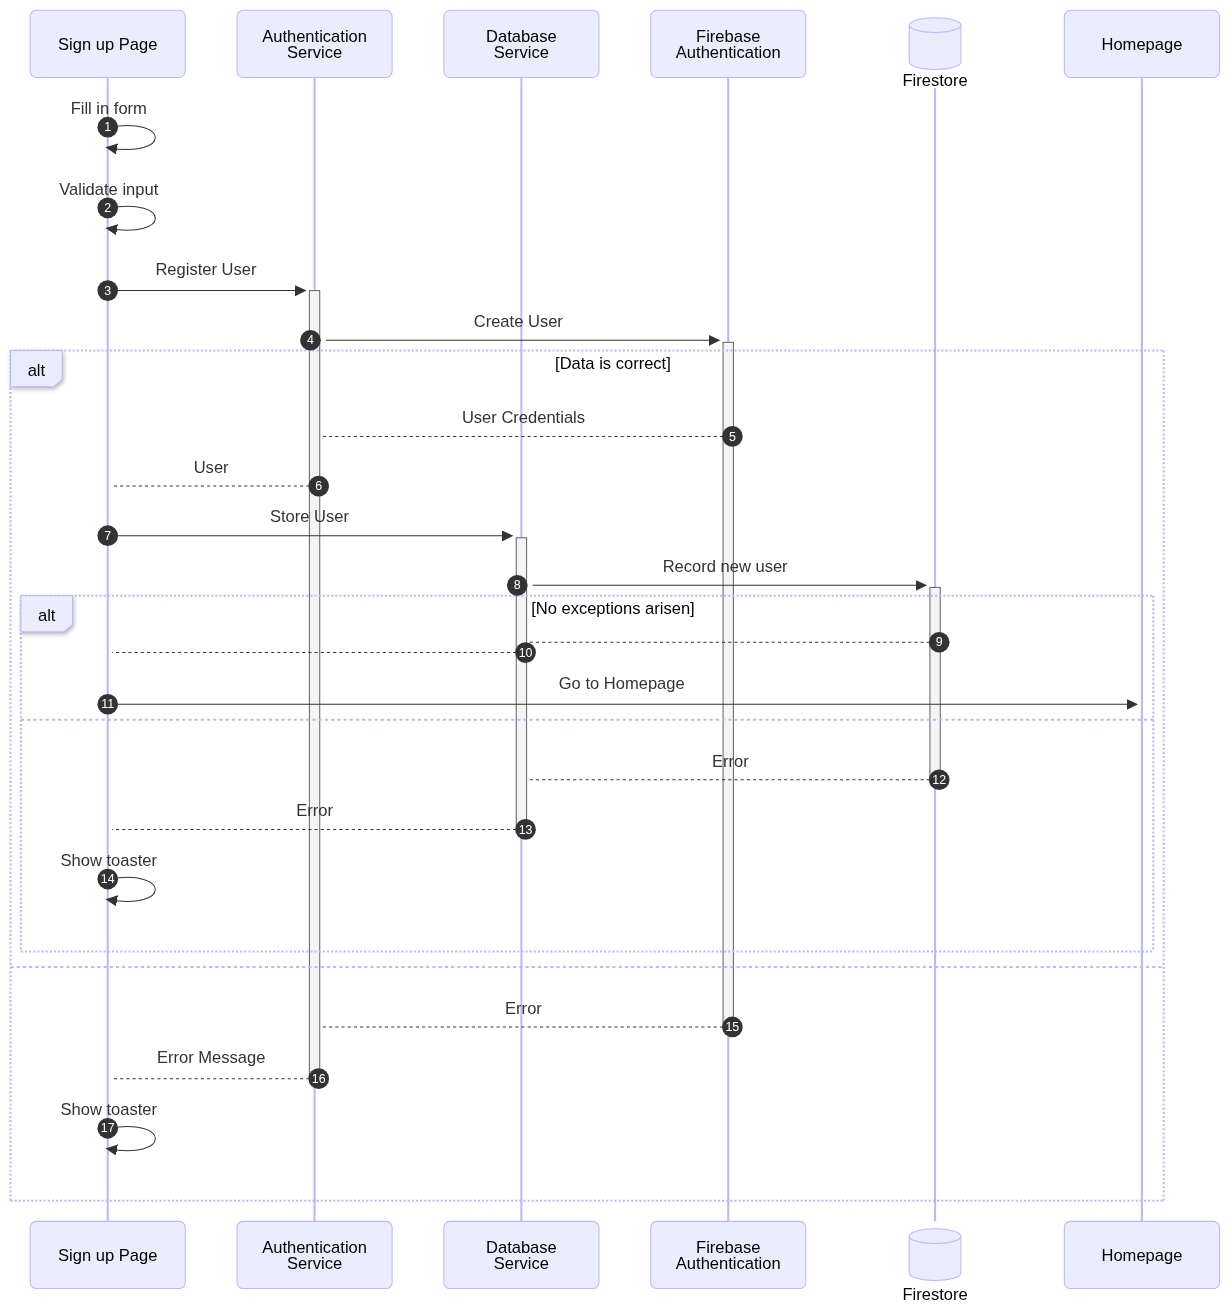
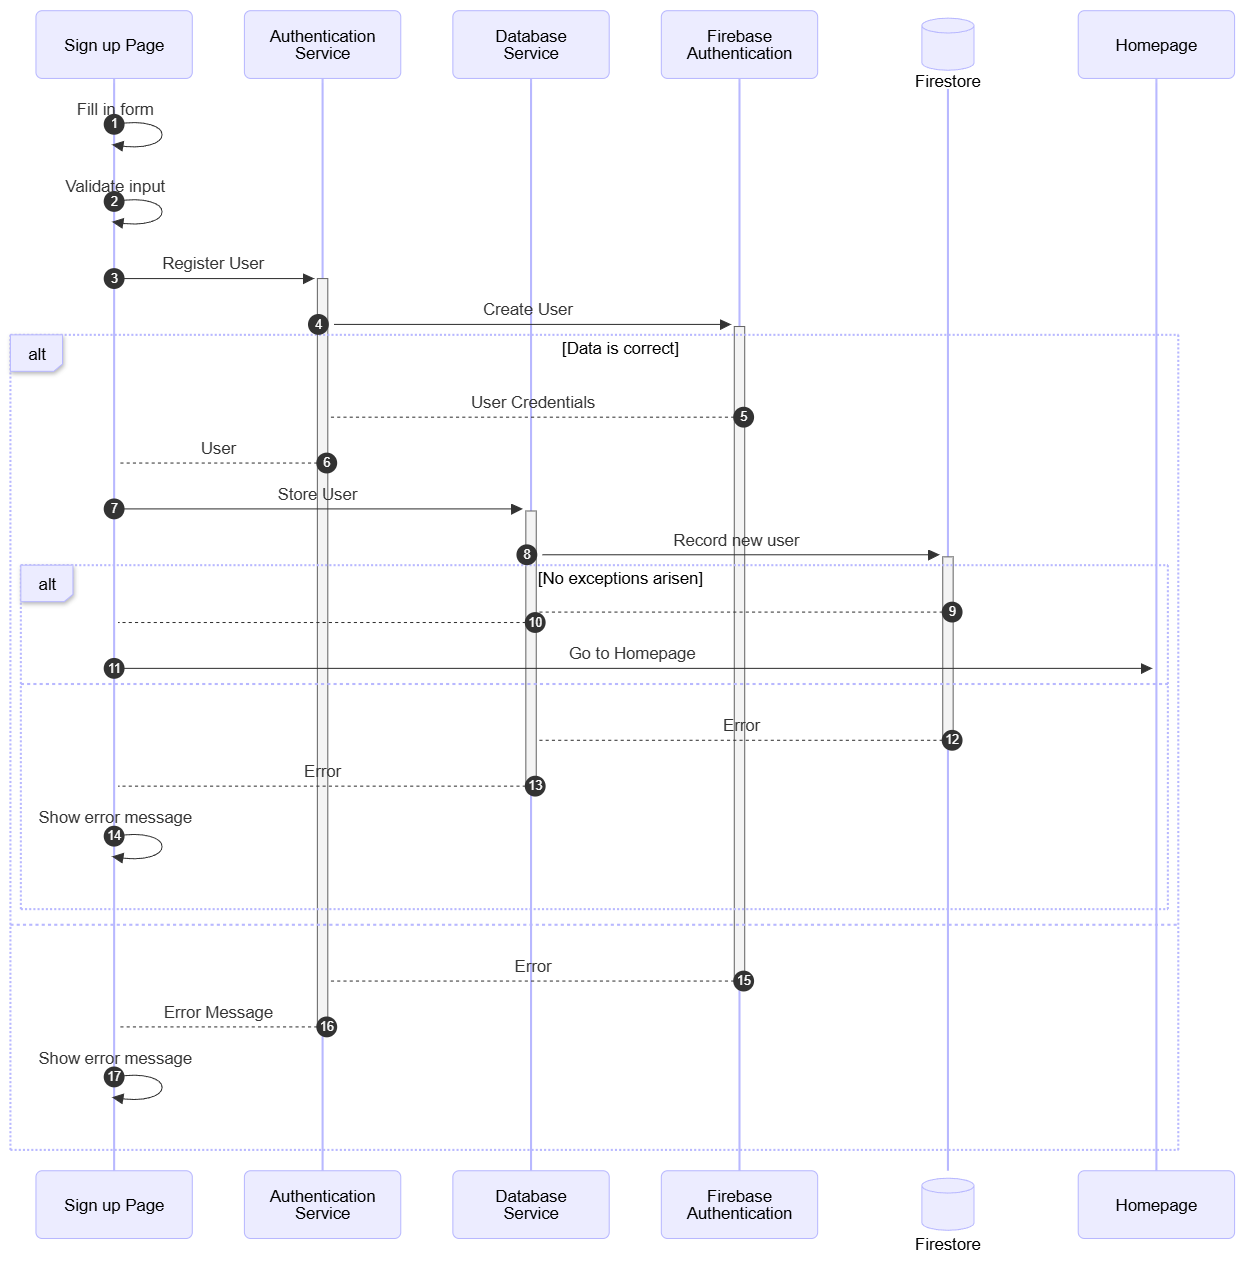
Updates from Overleaf

diff --git a/Documentation/doc.tex b/Documentation/doc.tex
@@ -183,7 +183,7 @@ The application is developed in Flutter and presents the following main features
 
         As illustrated in Figure~\ref{fig:architecture}, the application communicates with external systems through \textbf{HTTPS-based API calls}. These external services provide core functionality for the application, including trail data, elevation, weather information, and geospatial queries.
 
-        For local persistence, Trailify uses a \textbf{Hive database}, which stores both \textit{favorite trails} and temporary \textit{GPS tracking data}. This ensures that user data remains available offline and can be retrieved across sessions.
+        For local persistence, Trailify uses a \textbf{Hive database}, which stores \textit{planned activities}, \textit{completed activities} not synced with Firestore and temporary \textit{GPS tracking data}. This ensures that user data remains available offline and can be retrieved across sessions.
 
         The application is designed to support background execution through the use of \textbf{two Dart isolates}. The \textit{main isolate} handles the user interface and primary computations, while a dedicated \textit{background isolate} becomes active during tracking sessions. This isolate continuously receives GPS updates and persists them into a Hive box. Once the application returns to the foreground, the main isolate retrieves the stored points and refreshes the UI accordingly, ensuring that no tracking data is lost during background execution.
 
@@ -240,7 +240,7 @@ To guarantee a seamless offline-first experience, Trailify utilizes \textbf{Hive
 
 \begin{itemize}
     \item \textbf{GPS Tracking Data:} During active navigation, \texttt{LocationPoint} objects are serialized using a custom Hive \texttt{TypeAdapter} and stored in the \texttt{location\_box}. This allows the background tracking isolate to persist coordinates safely, which the main isolate can later reconstruct without data loss.
-    \item \textbf{Offline Maps \& Planned Trails:} The \texttt{PlannedTrailStore} uses a dedicated Hive box (\texttt{planned\_trails}) to cache the physical geometry of upcoming hikes. This ensures the app can render the trail path even when the user starts a planned hike in an area with zero cellular coverage.
+    \item \textbf{Offline Planned Trails:} The \texttt{PlannedTrailStore} uses a dedicated Hive box (\texttt{planned\_trails}) to cache the physical geometry of upcoming hikes. This ensures the app can render the trail path even when the user starts a planned hike in an area with zero cellular coverage.
     \item \textbf{Activity Synchronization:} The \texttt{ActivityRepository} uses a local store to cache activities. Newly created or completed activities are initially saved locally and marked with a \texttt{pendingSync} flag. When network connectivity is restored, the repository automatically detects pending entries, pushes them to Firestore, and subsequently clears them from the local queue to maintain storage efficiency.
 \end{itemize}
 
@@ -364,19 +364,26 @@ This section is used to show the design of the main screens of the user applicat
         \end{figure}
     \end{center}
 
+    \newpage
+
     \subsubsection{Map page}
     The \textbf{Map Page} [Figure \ref{fig:map_page}] is the main screen of the application. It displays the map and allows users to search for routes either around their current location or around a specified destination. The search functionality also includes customizable filters. In particular, the difficulty filter is linked to the user's profile settings, enabling the application to recommend routes that best match each user's skill level.\\
 
     At the bottom of the screen, the \textbf{Navigation Bar} provides quick and intuitive access to the four main sections of the application.
 
-    \begin{center}
-        \begin{figure} [H]
-            \centering
-            \includegraphics[width=0.4\linewidth]{Documentation/images/phone screens/map_screen.png}
-            \caption{Map page}
-            \label{fig:map_page}
-        \end{figure}
-    \end{center}
+    \begin{figure} [H]
+        \begin{minipage}[c]{0.4\linewidth}
+            \includegraphics[width=\linewidth]{Documentation/images/phone screens/map_screen.png}
+            \label{fig:map_screen}
+        \end{minipage}
+        \hfill
+        \begin{minipage}[c]{0.4\linewidth}
+            \includegraphics[width=\linewidth]{Documentation/images/phone screens/found_path_screen.png}
+            \label{fig:found_path_screen}
+        \end{minipage}
+        \caption{Map page}
+        \label{fig:map_page}
+    \end{figure}
 
     \subsubsection{Trail details page}
     Once a route has been selected, the user is redirected to the \textbf{Trail Details Page} [Figure \ref{fig:trail_detail_page}], where the main characteristics of the selected trail are displayed, including its name, length, difficulty, and elevation gain. If some of this information is unavailable, the application computes the missing values. For example, when the difficulty rating is not provided by the \textit{CAI}, it is estimated based on the other available trail statistics. The page also displays the weather forecast for the following 14 days. Additional notes about the trail are provided at the bottom of the page. From this screen, the user can either plan the route or start navigation immediately.
@@ -402,10 +409,10 @@ This section is used to show the design of the main screens of the user applicat
         \end{figure}
     \end{center}
 
+    \newpage
+
     \subsubsection{Diary page - planned hikes}
     The \textbf{Diary Page} is divided into two sections. The \textbf{Planned Hikes} section [Figure \ref{fig:planned_hikes_page}] displays all scheduled hikes in descending order by date. By selecting a hike, the user can open its details page. The icons displayed next to each hike indicate whether the corresponding trail has already been downloaded for offline use or is currently available only online and is being downloaded to the device.\\
-
-    At the bottom of the screen, the \textbf{Navigation Bar} provides quick and intuitive access to the four main sections of the application.
 
     \begin{center}
         \begin{figure} [H]
@@ -416,8 +423,10 @@ This section is used to show the design of the main screens of the user applicat
         \end{figure}
     \end{center}
 
+    \newpage
+
     \subsubsection{Diary page - completed hikes}
-    The \textbf{Diary Page} is divided into two sections. The \textbf{Completed Hikes} section displays all completed hiking activities in descending order by date. By selecting a completed activity, the user can view the statistics recorded during the hike.
+    The second section of the \textbf{Diary Page} is the \textbf{Completed Hikes} section that displays all completed hiking activities in descending order by date. By selecting a completed activity, the user can view the statistics recorded during the hike.
      
     \begin{center}
         \begin{figure} [H]
@@ -427,6 +436,8 @@ This section is used to show the design of the main screens of the user applicat
             \label{fig:completed_hikes_page}
         \end{figure}
     \end{center}
+
+    \newpage
 
     \subsubsection{Diary page - Activity detail}
     The \textbf{Activity Detail Page} [Figure \ref{fig:activity_detail_page}] provides an overview of the activity statistics and, when available, displays performance data collected during the completion of the activity. The page is structured into two main sections: \textbf{Overview} and \textbf{Notes}.
@@ -439,6 +450,8 @@ This section is used to show the design of the main screens of the user applicat
             \label{fig:activity_detail_page}
         \end{figure}
     \end{center}
+
+    \newpage
 
     \subsubsection{Diary page - Notes}
     The \textbf{Notes} section [Figure \ref{fig:notes_list}] of the \textbf{Activity Detail Page} displays all notes created by the user since the activity was first generated. Notes can be either textual or images, and may optionally include captions.
@@ -459,10 +472,10 @@ This section is used to show the design of the main screens of the user applicat
         \end{minipage}
     \end{figure}
 
+    \newpage
+
     \subsubsection{Favorites page}
     The \textbf{Favorites Page} [Figure \ref{fig:favorites_page}] is the section where users can store and access their saved routes. By selecting a route, the user is redirected to the \textbf{Trail Details Page}, where they can plan or directly start navigation.
-
-    At the bottom of the page, the \textbf{Navigation Bar} provides quick access to the four main sections of the application, enabling efficient and consistent navigation throughout the interface.
 
     \begin{center}
         \begin{figure} [H]
@@ -473,10 +486,10 @@ This section is used to show the design of the main screens of the user applicat
         \end{figure}
     \end{center}
 
+    \newpage
+
     \subsubsection{Profile page}
     The \textbf{Profile Page} [Figure \ref{fig:profile_page}] represents the user’s profile section, where personal statistics are displayed, including name, email, level, completed routes, and total distance covered. It also provides access to basic settings such as route difficulty preferences, whether the user has via ferrata equipment, notification settings, and a logout button.
-
-    At the bottom of the page, the \textbf{Navigation Bar} allows the user to easily navigate across the four main sections of the application, ensuring consistent and efficient access to all core functionalities.
 
     \begin{figure} [H]
         \begin{minipage}[c]{0.4\linewidth}
@@ -492,8 +505,10 @@ This section is used to show the design of the main screens of the user applicat
         \label{fig:profile_page}
     \end{figure}
 
+    \newpage
+
     \subsubsection{Navigator page}
-    La \textbf{Navigator page} [Figura \ref{fig:navigator_page}] è la pagina che si occupa della navigazione dell'utente. Vengono registrate le statistiche più importanti, come tempo trascorso, Estimated Time of Arrival (ETA), distanza percorsa e elevation gap. E' possibile mettere in pausa la registrazione, oppure fermarla per completare l'attività, che verrà salvata in locale e, se c'è copertura di rete, sincronizzata direttamente con Firestore. E' possibile abbassare la card per vedere meglio la mappa, e l'utente riceve delle notifiche in caso vada fuori percorso, con la distanza dalla strada e la direzione da prendere per tornare sul tracciato. La navigazione funziona anche in background.
+    The \textbf{Navigator Page} [Figure \ref{fig:navigator_page}] is the page responsible for handling user navigation. It records the most important statistics, such as elapsed time, Estimated Time of Arrival (ETA), distance covered, and elevation gap. Users can pause the recording or stop it to complete the activity, which will be saved locally and, if network coverage is available, synchronized directly with Firestore. The bottom card can be lowered to provide a better view of the map, and the user receives notifications if they go off-route, indicating the distance from the trail and the direction to take to get back on track. Furthermore, navigation continues to function even in the background.
 
     \begin{center}
         \begin{figure} [H]
@@ -524,6 +539,8 @@ This section is used to show the design of the main screens of the user applicat
         \end{figure}
     \end{center}
 
+    \newpage
+
     \subsubsection{Time and ETA page}
     The \textbf{Time and ETA Page} [Figure \ref{fig:time_and_ETA_page}] is the first screen displayed when the phone begins recording the activity. It presents real-time time-related statistics for the current route, including elapsed time and estimated time of arrival (ETA).
 
@@ -537,6 +554,8 @@ This section is used to show the design of the main screens of the user applicat
             \label{fig:time_and_ETA_page}
         \end{figure}
     \end{center}
+
+    \newpage
 
     \subsubsection{Distance page}
     The \textbf{Distance Page} [Figure \ref{fig:distance_page}] displays distance-related statistics for the selected route on the smartwatch. It includes a progress ring that indicates the percentage of the route already completed.
@@ -552,6 +571,8 @@ This section is used to show the design of the main screens of the user applicat
         \end{figure}
     \end{center}
 
+    \newpage
+
     \subsubsection{Elevation gain page}
     The \textbf{Elevation Gain Page} [Figure \ref{fig:elevation_page}] displays elevation-related statistics on the smartwatch, showing the user's vertical movement throughout the selected route.
 
@@ -565,6 +586,8 @@ This section is used to show the design of the main screens of the user applicat
             \label{fig:elevation_page}
         \end{figure}
     \end{center}
+
+    \newpage
 
     \subsubsection{Pause page}
     The \textbf{Pause Page} [Figure \ref{fig:pause_page}] allows the user to pause or stop the navigation session without requiring the phone to be active or unlocked. 
@@ -597,6 +620,7 @@ The main tools and libraries used to set up this environment include:
     \item \textbf{Mocktail:} to create mock instances of external dependencies (e.g. Firebase, Geolocator).
     \item \textbf{Bloc test:} to verify the state emissions and transitions of the application's Cubits.
     \item \textbf{FakeHttpOverrides:} to intercept and mock network requests to external APIs (e.g. Overpass, OpenMeteo).
+    \item \textbf{Patrol:} to automatically granting runtime permissions.
 \end{itemize}
 
 \subsection{Unit Test}
@@ -679,10 +703,11 @@ The main aspects covered by widget tests are: \\
         \end{figure} 
 
 \subsection{Integration test}
-Integration testing focuses on how different widgets interact with each other, not on the single widget instance like unit testing. \\
-This kind of tests are performed in \textit{deploy environment} (exploiting an emulator), in this way the stability of the system and the coordination with external APIs is assessed.\\
-As our main focus is the whole system stability these tests start from the login page, and perform the most important actions of the application. \\
-The resulting tests (divided by pages) are: \\
+Integration testing focuses on verifying how different widgets and application components interact with each other, rather than testing individual widget instances as in unit testing.\\
+These tests are executed in a \textit{deployed environment} using an emulator, allowing the application to interact with external services under conditions that closely resemble a real deployment. This approach makes it possible to assess both the overall stability of the system and its coordination with external APIs.\\
+The integration test suite is implemented using \textbf{Patrol}, which extends Flutter's testing capabilities with reliable support for native platform interactions. In particular, Patrol provides a robust mechanism for automatically granting runtime permissions, which is essential for \textit{Trailify} to correctly run.\\
+Since the primary objective of these tests is to validate the stability of the complete application, each test starts from the login page and exercises the most important user workflows across the system.\\
+The resulting test suite, organized by page, consists of the following:
 \begin{itemize}
     \item \textbf{Login page:}
         \begin{itemize}
@@ -714,30 +739,5 @@ The resulting tests (divided by pages) are: \\
             \item Stop tracking takes back to map page
         \end{itemize}
 \end{itemize}
-
-\newpage
-
-\begin{comment}
-    post: id percorso, data, commento, lista foto
-    sezione con percorsi preferiti
-    pagina a parte per i preferiti
-    collegamento smartwatch
-
-    AGGIUNGERE PULSANTE START A PAGINA CON DETTAGLI PERCORSO PLANNATO
-
-    refresh pallino posizione una volta dati permessi
-
-    _centerMapOnTrail si può spostare in MapManagementService
-
-    edo: filtri + se c'è tempo test
-    ste: app smartwatch
-    flavio: preferiti + immagini
-
-    Integration test fatti:
-    login
-    logout
-    da mappa a diary, favorites, profile e indietro
-    
-\end{comment}
 
 \end{document}